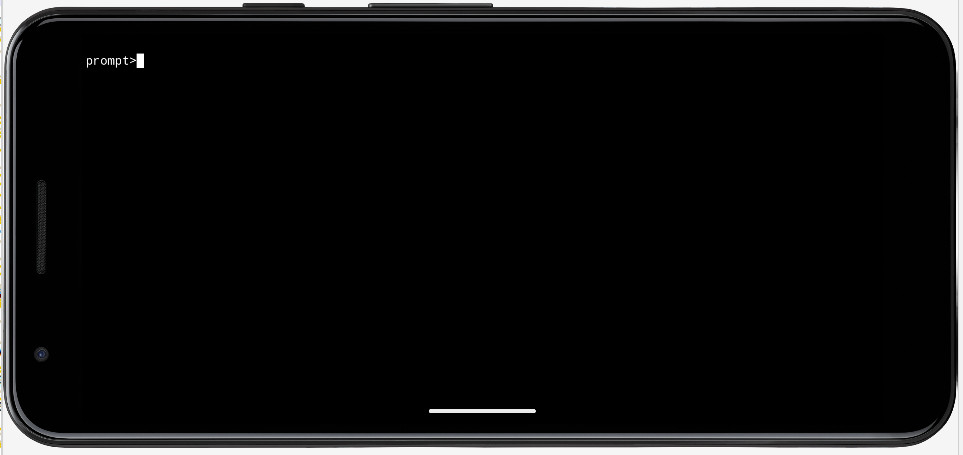
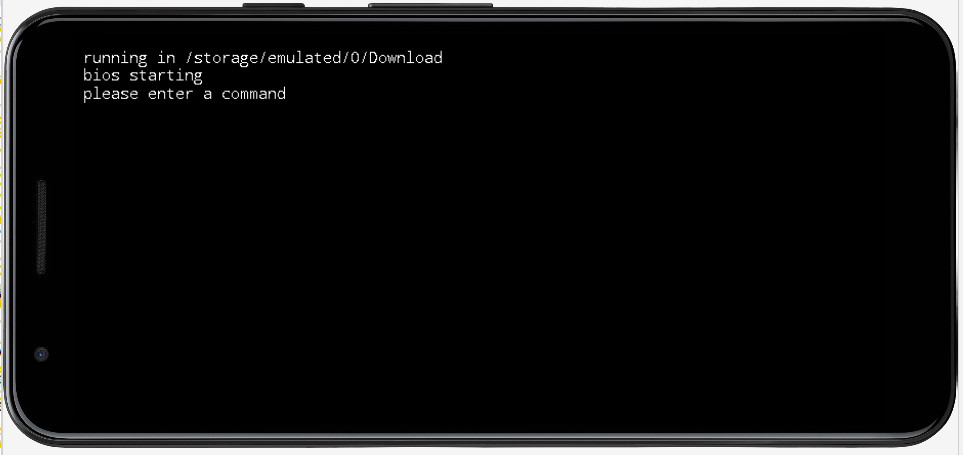
bug in Download/ directory path ?

Changed region(s): [[0.0623, 0.0923, 0.4673, 0.2154], [0.4361, 0.8923, 0.5607, 0.9231]]

diff --git a/app/src/main/java/com/cod5/pdos_pdandro/MainActivity.kt b/app/src/main/java/com/cod5/pdos_pdandro/MainActivity.kt
@@ -667,21 +667,19 @@ class MainActivity : AppCompatActivity() {
     /* try to rune exec */
     fun run() {
         hasWriteStoragePermission()
-        val dir = Environment.getExternalStoragePublicDirectory(Environment.DIRECTORY_DOWNLOADS)
-        if (dir.canWrite()) {
-            init_app()
-            return
-        }
         val tim = Timer()
         tim.scheduleAtFixedRate(object : TimerTask() {
             override fun run() {
                 Handler(mainLooper).postDelayed(
                     {
+                        val ex = Environment.getExternalStorageDirectory().absolutePath
+                        val dir = File("$ex/Download")
                         if (dir.canWrite()) {
+                            addtxt("running in $dir\n")
                             tim.cancel()
-                            init_app()
+                            init_app(dir)
                         } else {
-                            addtxt("Missing write permission to Download/ folder.\n")
+                            addtxt("$dir missing permission!\n")
                         }
                     }, 0.toLong())
             }
@@ -689,14 +687,9 @@ class MainActivity : AppCompatActivity() {
     }
 
     /* copy files and run native executable */
-    fun init_app() {
+    fun init_app(dir: File) {
         val s = applicationContext.applicationInfo.nativeLibraryDir
-
-        hasWriteStoragePermission()
-
         val c = "$s/libbios.so"
-        //val dir = File(p);
-        val dir = Environment.getExternalStoragePublicDirectory(Environment.DIRECTORY_DOWNLOADS)
 
         try {
             val file = File(dir, "hi.txt")
